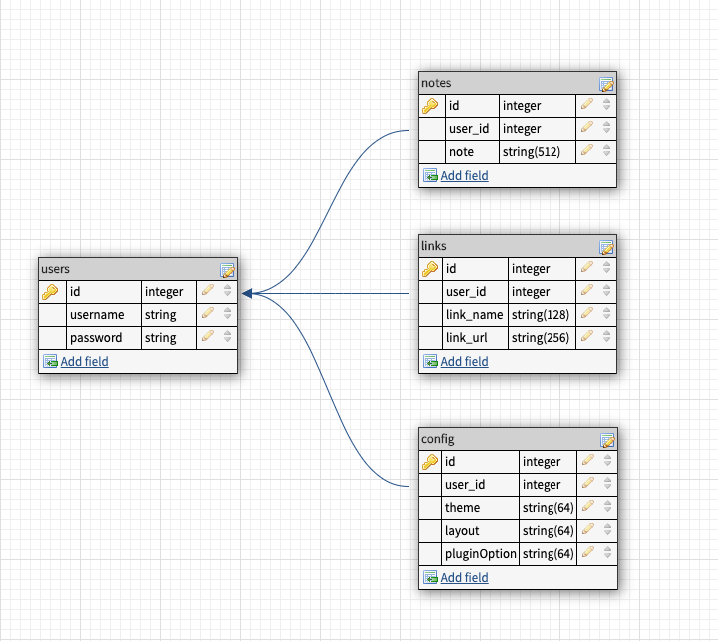
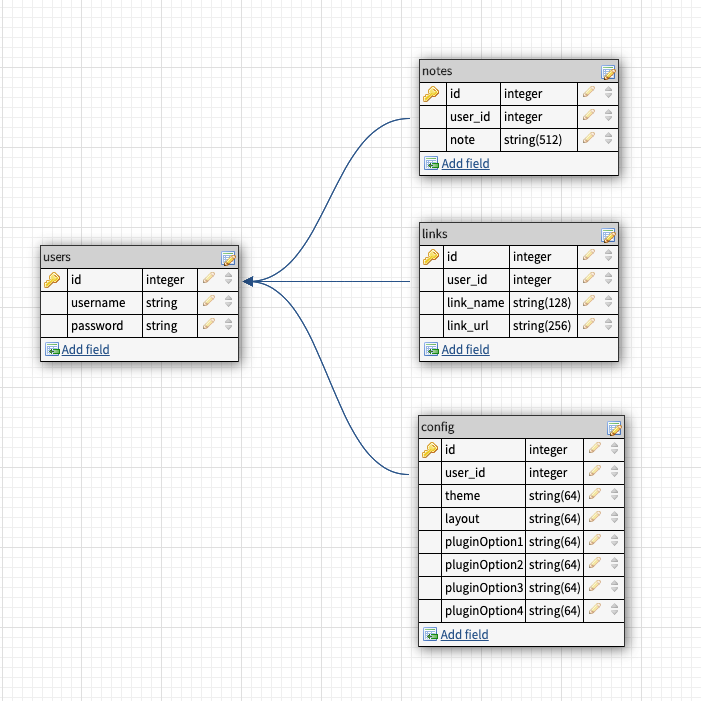
reformated db and inserted data

diff --git a/database/migrations/20191022143753_remake_config.js b/database/migrations/20191022143753_remake_config.js
@@ -1,0 +1,30 @@
+
+exports.up = function(knex) {
+    return knex.schema
+        .dropTableIfExists('config')
+
+        .createTable('config', tbl => {
+            tbl.increments();
+        
+            tbl.string('theme', 64).notNullable();
+            tbl.string('layout', 64).notNullable();
+            tbl.string('pluginOption1', 64).notNullable();
+            tbl.string('pluginOption2', 64).notNullable();
+            tbl.string('pluginOption3', 64).notNullable();
+            tbl.string('pluginOption4', 64).notNullable();
+
+            tbl
+            .integer('user_id')
+            .unsigned()
+            .notNullable()
+            .references('id')
+            .inTable('users')
+            .onUpdate('CASCADE')
+            .onDelete('RESTRICT');
+        });
+};
+
+exports.down = function(knex) {
+            return knex.schema
+            .dropTableIfExists('config');
+};

diff --git a/database/seeds/003-initial-links.js b/database/seeds/003-initial-links.js
@@ -1,0 +1,8 @@
+
+exports.seed = function(knex) {
+  return knex('links').insert([
+    {	user_id: 1, link_name: 'Google maps', link_url: 'https://maps.google.com' },
+    {	user_id: 1, link_name: 'Google calendar', link_url: 'https://calendar.google.com/calendar/' },
+    {	user_id: 1, link_name: 'Google drive', link_url: 'https://drive.google.com/drive/my-drive' }
+  ]);
+};

diff --git a/database/seeds/004-initial-config.js b/database/seeds/004-initial-config.js
@@ -1,0 +1,13 @@
+
+exports.seed = function(knex) {
+  return knex('config').insert([
+    {	
+      user_id: 1, 
+      theme: 'light', 
+      layout: 'first', 
+      pluginOption1: 'option1', 
+      pluginOption2: 'option2', 
+      pluginOption3: 'option3', 
+      pluginOption4: 'option4' }
+  ]);
+};

diff --git a/database/seeds/000-cleanup.js b/database/seeds/000-cleanup.js
@@ -1,0 +1,8 @@
+const cleaner = require('knex-cleaner');
+
+exports.seed = function(knex) {
+  return cleaner.clean(knex, {
+    mode: 'truncate', // resets ids
+    ignoreTables: ['knex_migrations', 'knex_migrations_lock'], // don't empty migration tables
+  });
+};

diff --git a/database/seeds/002-initial-notes.js b/database/seeds/002-initial-notes.js
@@ -1,0 +1,7 @@
+
+exports.seed = function(knex) {
+  return knex('notes').insert([
+    {	user_id: 1, note: 'Some important note' },
+    {	user_id: 1, note: 'Anothe important note here' }
+  ]);
+};

diff --git a/database/seeds/001-initial-data.js b/database/seeds/001-initial-data.js
@@ -1,0 +1,6 @@
+
+exports.seed = function(knex) {
+  return knex('users').insert([
+    {	username: 'admin', password: 'pass' }
+  ]);
+};
